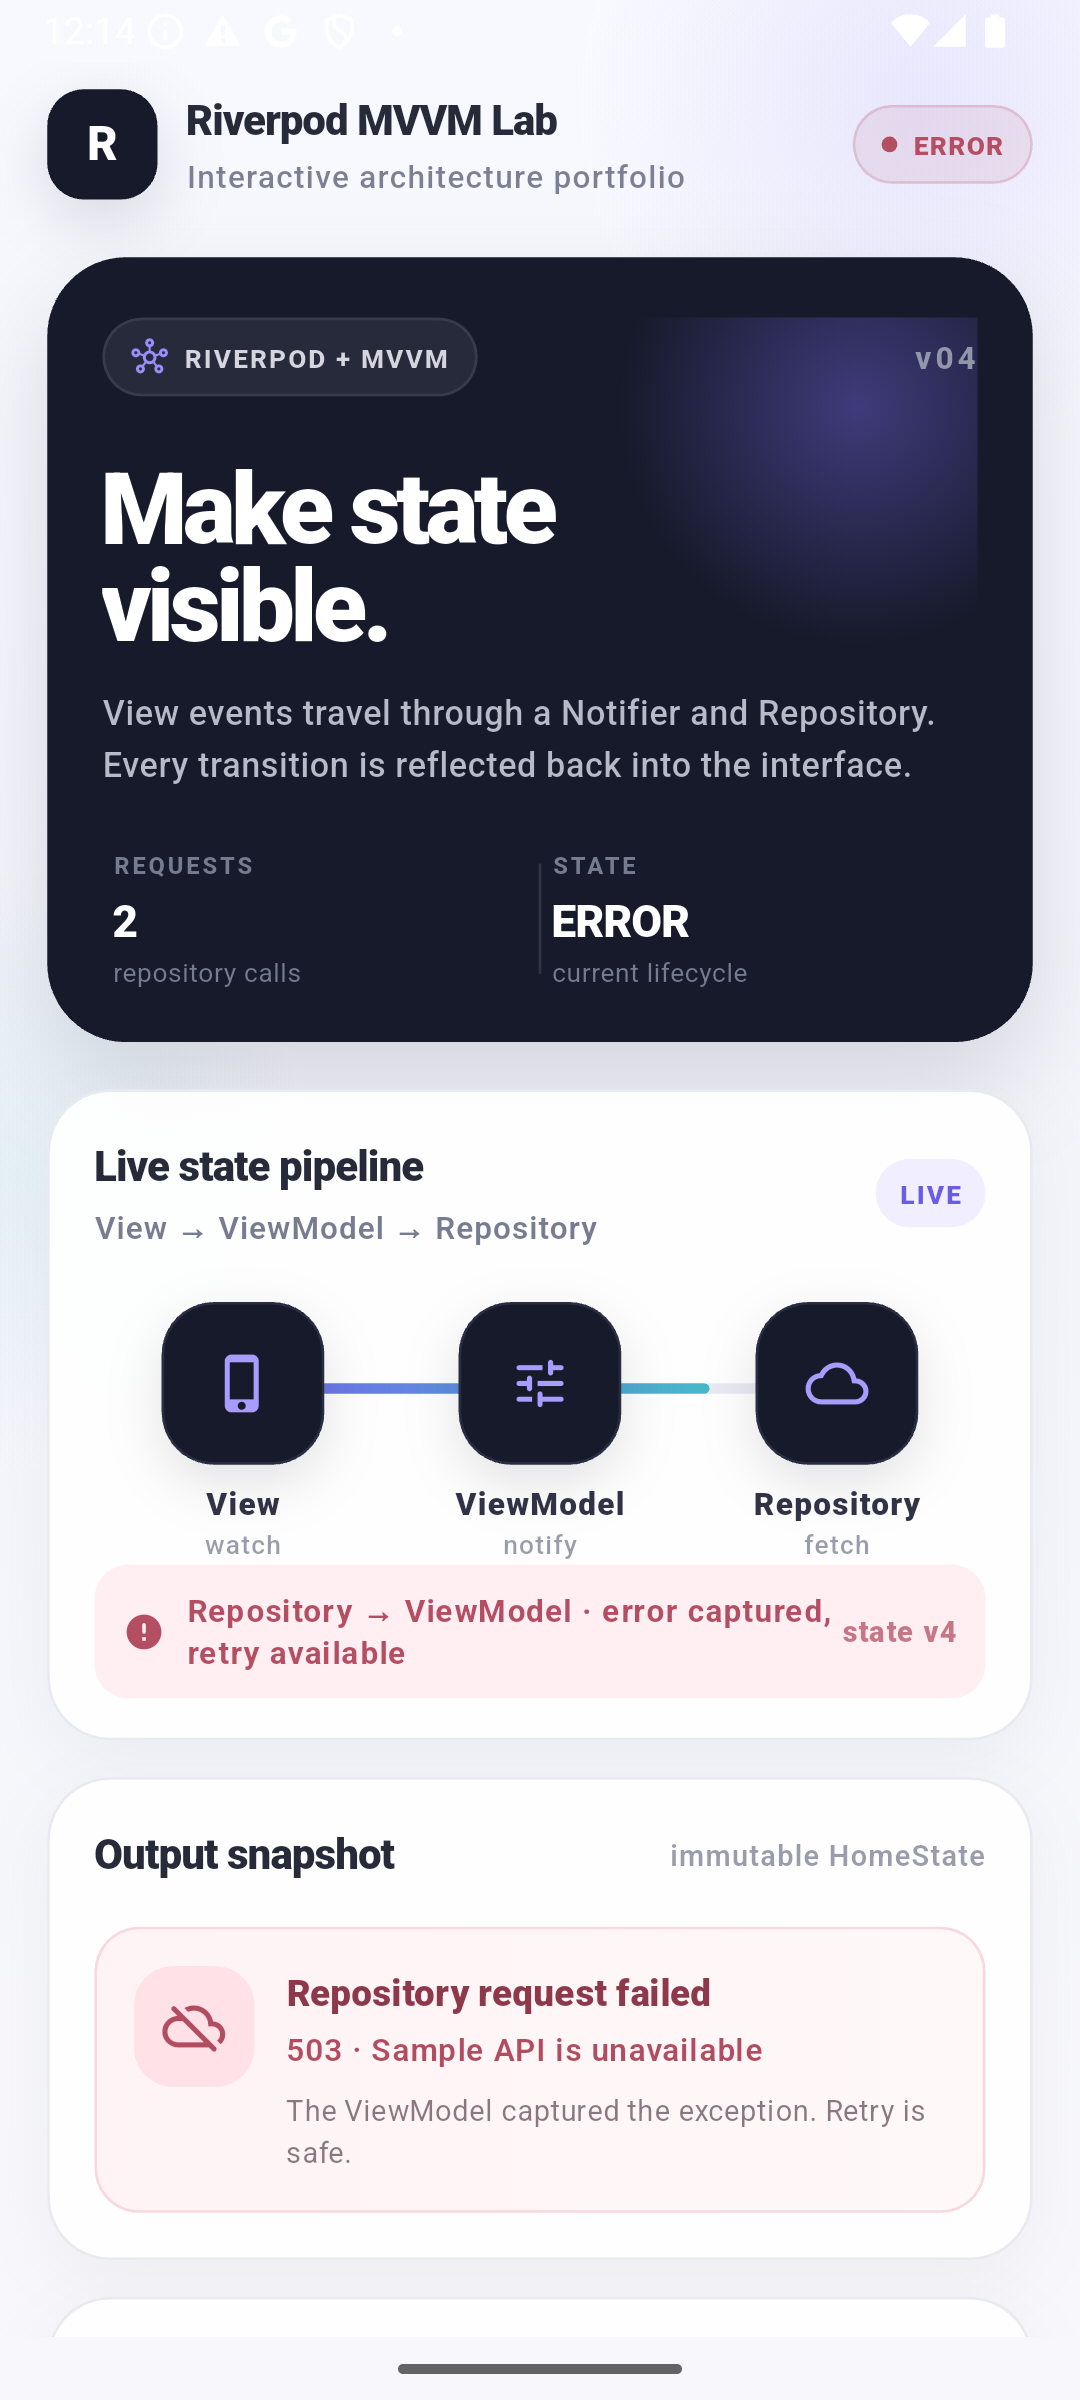
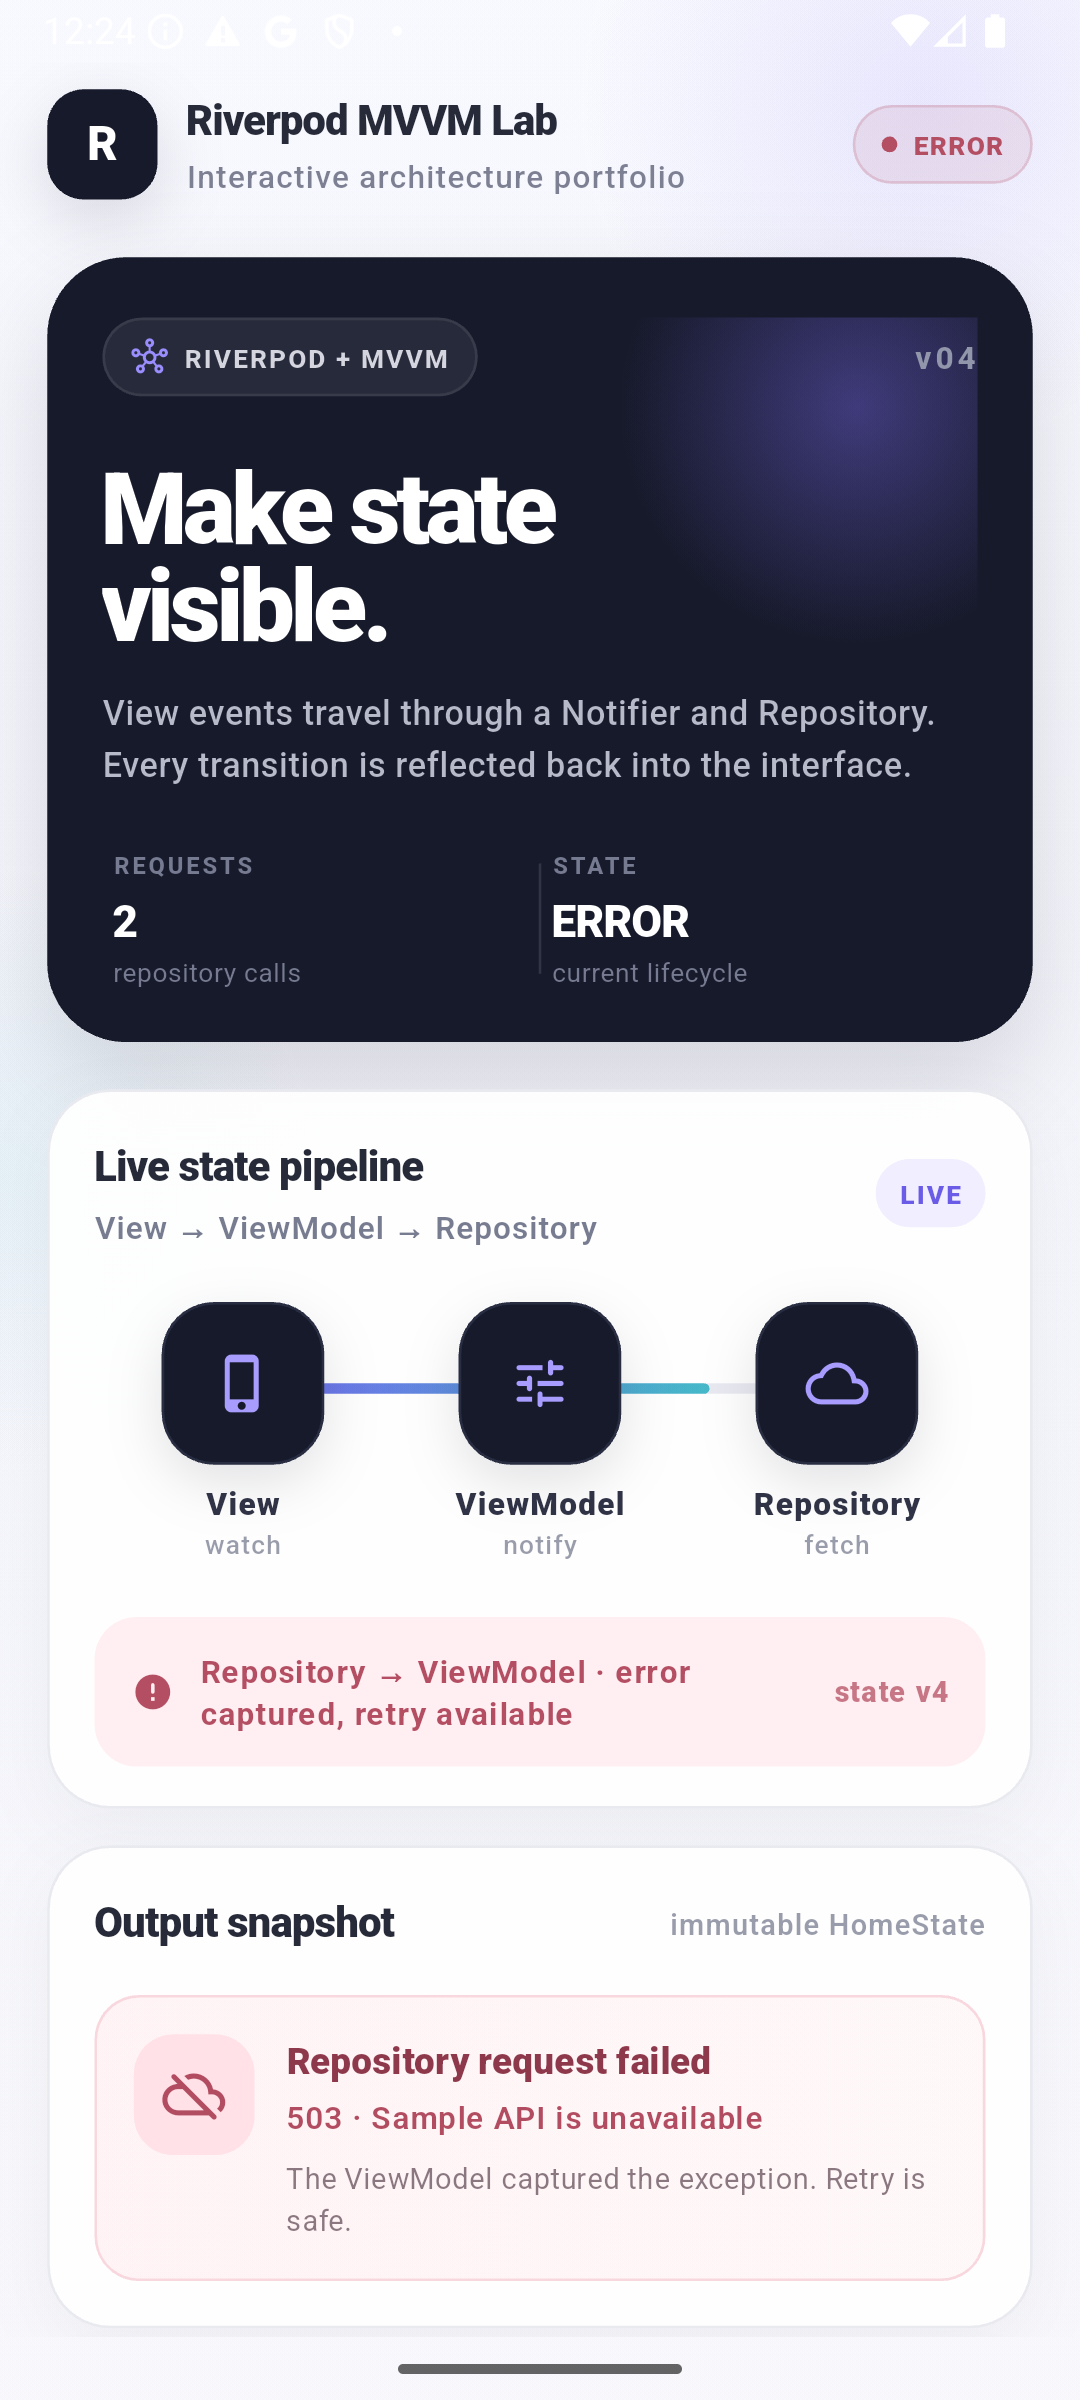
Refine pipeline alert spacing

diff --git a/lib/home_page.dart b/lib/home_page.dart
@@ -499,6 +499,7 @@ class _PipelineCard extends StatelessWidget {
               },
             ),
           ),
+          const SizedBox(height: 20),
           AnimatedSwitcher(
             duration: const Duration(milliseconds: 280),
             child: _TraceLine(
@@ -678,15 +679,15 @@ class _TraceLine extends StatelessWidget {
 
     return Container(
       width: double.infinity,
-      padding: const EdgeInsets.symmetric(horizontal: 11, vertical: 9),
+      padding: const EdgeInsets.symmetric(horizontal: 14, vertical: 12),
       decoration: BoxDecoration(
         color: background,
-        borderRadius: BorderRadius.circular(13),
+        borderRadius: BorderRadius.circular(16),
       ),
       child: Row(
         children: [
           Icon(icon, size: 16, color: color),
-          const SizedBox(width: 8),
+          const SizedBox(width: 10),
           Expanded(
             child: Text(
               message,
@@ -696,6 +697,7 @@ class _TraceLine extends StatelessWidget {
                   ),
             ),
           ),
+          const SizedBox(width: 10),
           Text(
             'state v${state.stateVersion}',
             style: Theme.of(context).textTheme.labelSmall?.copyWith(
